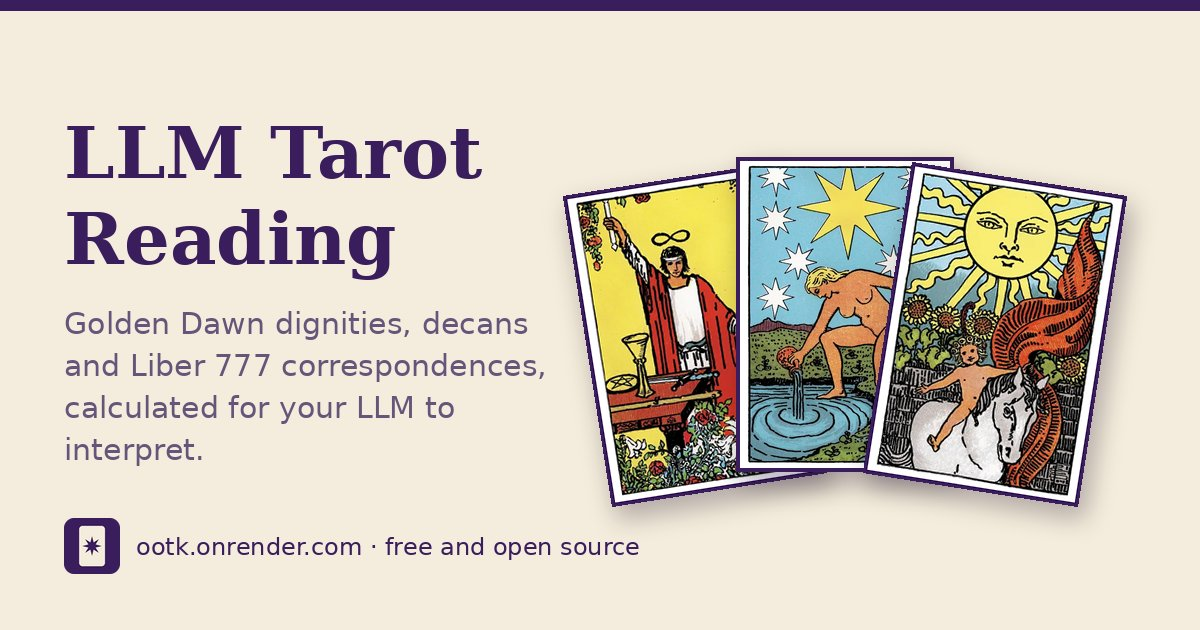
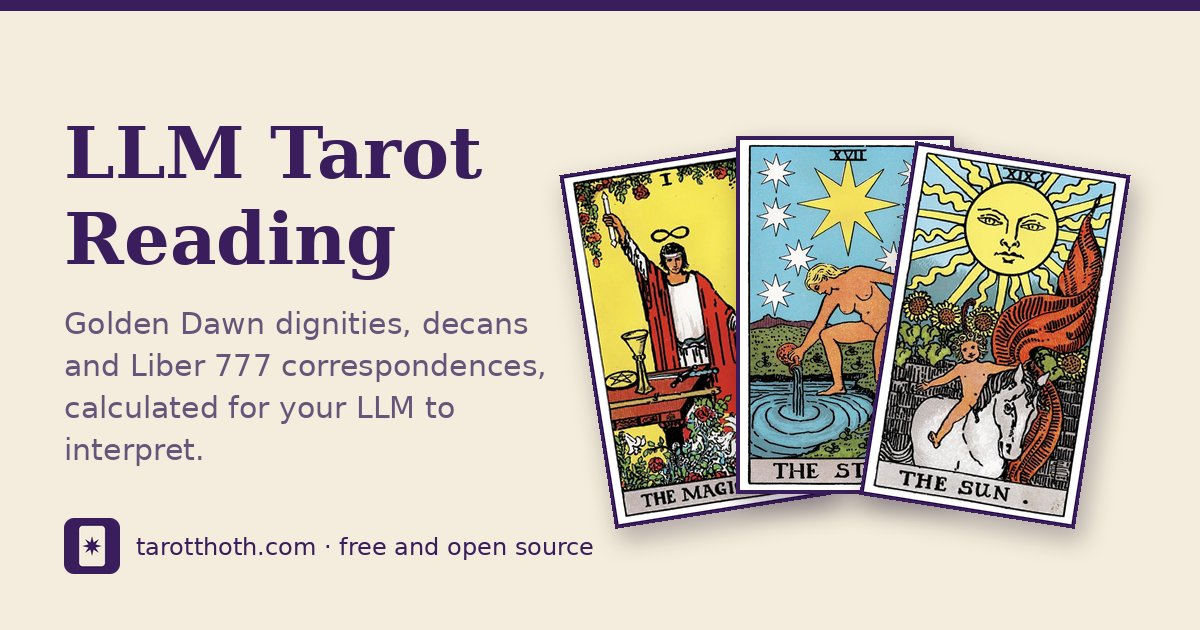
Point the README and link preview at tarotthoth.com
Claude-Session: https://claude.ai/code/session_01NAfSm5YidV7GEVGAVcDxVh

Changed region(s): [[0.1233, 0.2111, 0.9558, 0.9048]]

diff --git a/scripts/make_site_images.py b/scripts/make_site_images.py
@@ -25,7 +25,7 @@ PREVIEW_CARDS = ["i---the-magus.webp", "xvii---the-star.webp", "xix---the-sun.we
 TITLE = "LLM Tarot Reading"
 SUBTITLE = ("Golden Dawn dignities, decans and Liber 777 correspondences, "
             "calculated for your LLM to interpret.")
-FOOTER = "ootk.onrender.com · free and open source"
+FOOTER = "tarotthoth.com · free and open source"
 
 
 def font(names, size):

diff --git a/README.md b/README.md
@@ -4,11 +4,11 @@
 
 **Its strengths are objective analysis and clear conceptual models.** Every dignity, aspect and correspondence is looked up from the Book T and Liber 777 tables and scored the same way each time, and the heap, the wheel of houses and signs, and the Cube of Space show where each card sits and how the cards link. The meaning is left to the LLM.
 
-**Try it online: [ootk.onrender.com](https://ootk.onrender.com)** (free hosting, so the first visit after a quiet spell takes about a minute to wake up). Card images there are Pamela Colman Smith's public-domain 1909 Rider-Waite-Smith art, because the Thoth paintings are copyrighted.
+**Try it online: [tarotthoth.com](https://tarotthoth.com)** (free hosting, so the first visit after a quiet spell takes about a minute to wake up). Card images there are Pamela Colman Smith's public-domain 1909 Rider-Waite-Smith art, because the Thoth paintings are copyrighted.
 
 ![The start page: the headline "Navigate with Tarot.", the three steps (draw your cards, copy the prompt, open it in your AI) and the "Ask your question" panel with its Draw my cards button](docs/images/front.png)
 
-It places the Hebrew letters and the Platonic solids in three-dimensional space with two models: the **Cube of Space** from the Sefer Yetzirah (three mother letters as axes, seven doubles as faces and centre, twelve simples as edges) and **polyhedral dual inversions** (each card's solid and its dual; the cube's dual octahedron has its six corners on the Cube of Space's six directions). The [Method page](https://ootk.onrender.com/method#space) explains both and [/maps](https://ootk.onrender.com/maps) draws them.
+It places the Hebrew letters and the Platonic solids in three-dimensional space with two models: the **Cube of Space** from the Sefer Yetzirah (three mother letters as axes, seven doubles as faces and centre, twelve simples as edges) and **polyhedral dual inversions** (each card's solid and its dual; the cube's dual octahedron has its six corners on the Cube of Space's six directions). The [Method page](https://tarotthoth.com/method#space) explains both and [/maps](https://tarotthoth.com/maps) draws them.
 
 ---
 
@@ -240,7 +240,7 @@ The local database lives inside the container and starts empty on every run. To 
 
 Set `APP_PASSWORD` to make every page ask for that password (any user name works). Ten wrong passwords from one visitor within 15 minutes lock that visitor out for 15 minutes (on Render the visitor is told apart by Cloudflare's `CF-Connecting-IP`, which can't be faked). Saved reports are sent with `Cache-Control: no-store`, and the server's access log shows `/report/<redacted>` instead of report links. Without it, anyone who finds the site can draw readings (which are saved to your database), but can only open a reading if they have its exact link.
 
-On Render's free plan, `render.yaml` is a Blueprint for the same image (the public instance at [ootk.onrender.com](https://ootk.onrender.com) runs this way, with Neon as the database): create a Blueprint from this repository and fill in the `DB_*` settings of an external PostgreSQL (e.g. Neon) and, if you want a password, `APP_PASSWORD` when asked.
+On Render's free plan, `render.yaml` is a Blueprint for the same image (the public instance at [tarotthoth.com](https://tarotthoth.com) runs this way, with Neon as the database): create a Blueprint from this repository and fill in the `DB_*` settings of an external PostgreSQL (e.g. Neon) and, if you want a password, `APP_PASSWORD` when asked.
 
 Link previews (Open Graph and Twitter tags), `robots.txt` and `sitemap.xml` use the site's public address: `SITE_URL` if you set it, otherwise the address Render gives the service, otherwise the address the page was requested on. Search engines may list the start, pick and guide pages and the card of the day; saved readings (`/report/...`) are marked `noindex` and kept out of the sitemap, and `/reading` share links are disallowed in `robots.txt`. With `APP_PASSWORD` set, crawlers and link previews only see the password prompt. `scripts/make_site_images.py` rebuilds the favicon and the preview image.
 
